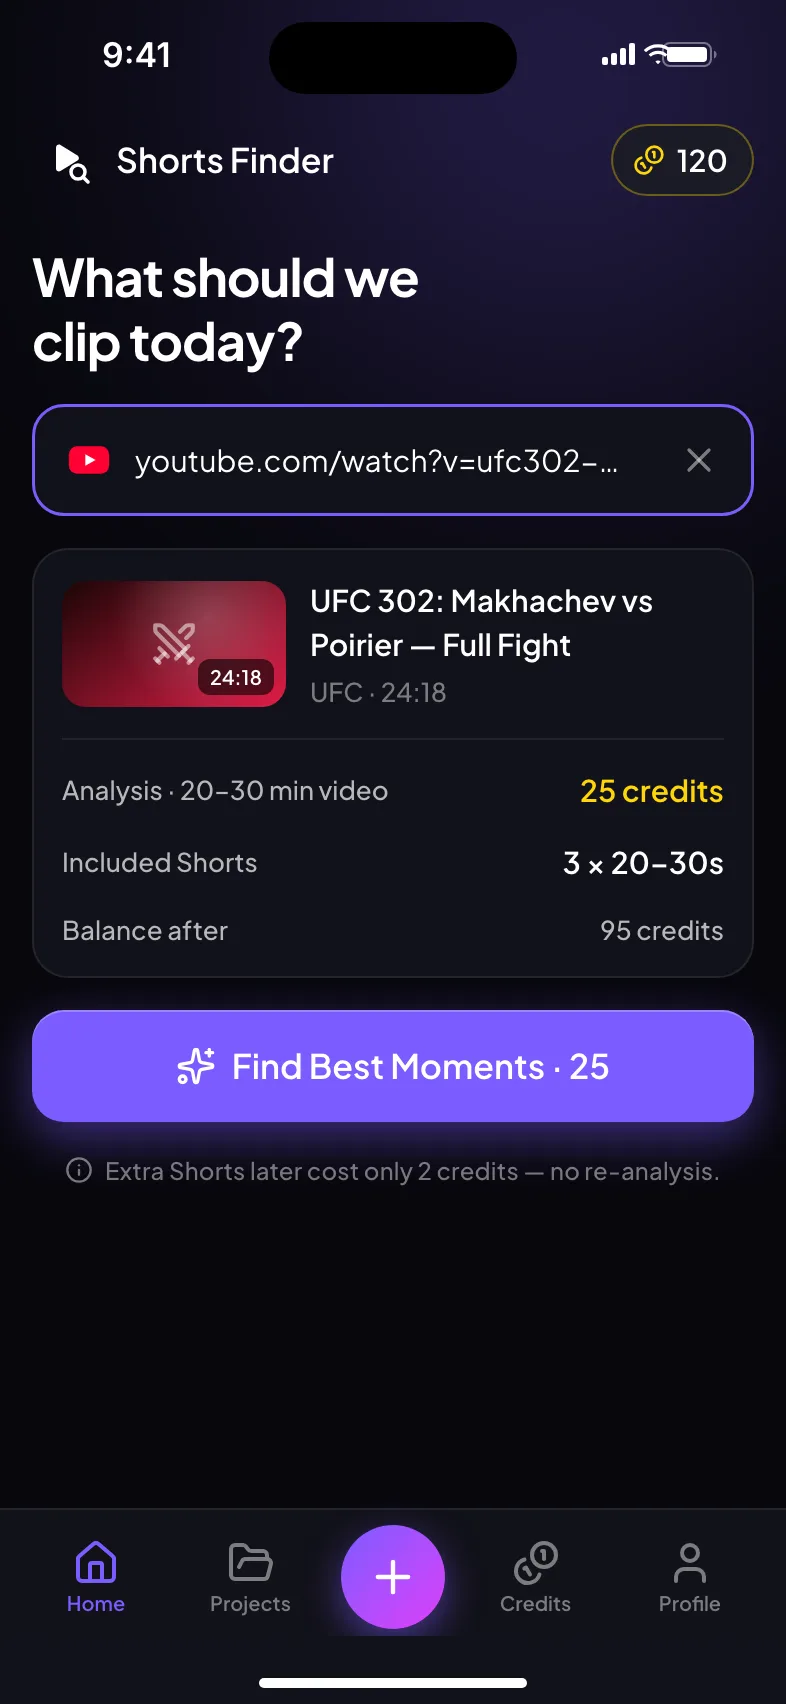
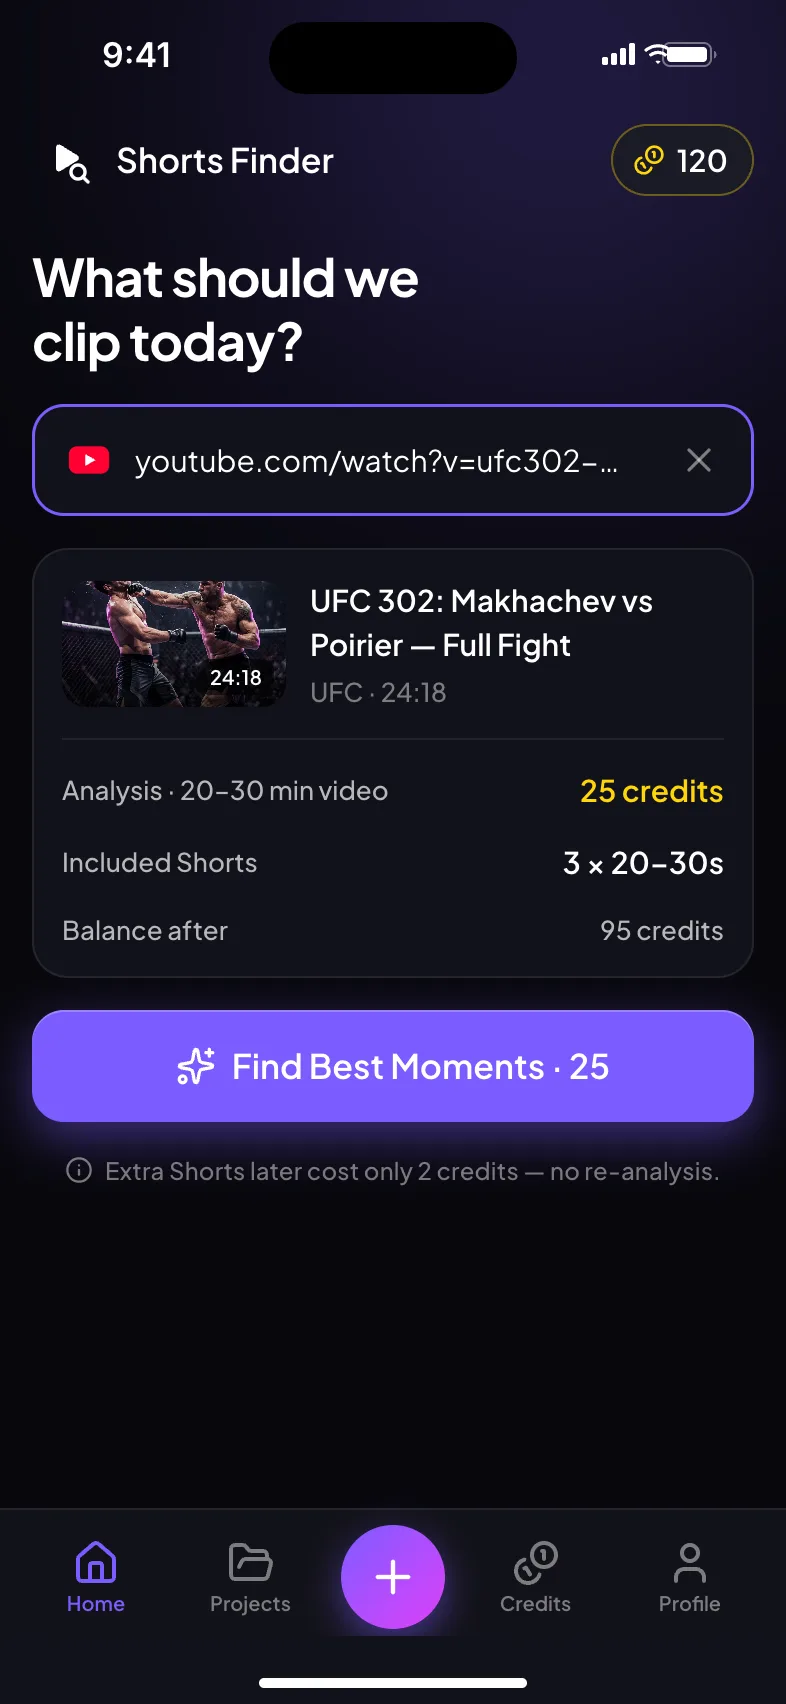
Gemini photos, SEO and AI-search files

Changed region(s): [[0.0611, 0.3421, 0.3664, 0.4354]]

diff --git a/index.html b/index.html
@@ -3,7 +3,7 @@
 <head>
 <meta charset="utf-8">
 <meta name="viewport" content="width=device-width, initial-scale=1">
-<title>ShortsFinder — AI YouTube Shorts Maker</title>
+<title>ShortsFinder — AI Shorts Maker for Long YouTube Videos</title>
 <meta name="description" content="Turn long YouTube videos into engaging Shorts with AI. ShortsFinder finds the best moments, creates vertical clips, adds captions and lets you edit and download them in seconds.">
 <meta name="theme-color" content="#07070C">
 <link rel="canonical" href="https://shortsfinder.com/">
@@ -12,7 +12,154 @@
 <meta property="og:description" content="AI finds the best moments in long YouTube videos and turns them into ready-to-share Shorts.">
 <meta property="og:url" content="https://shortsfinder.com/">
 <meta property="og:image" content="https://shortsfinder.com/assets/og.png">
+<meta property="og:site_name" content="ShortsFinder">
+<meta property="og:image:width" content="1200"><meta property="og:image:height" content="630">
+<meta property="og:image:alt" content="ShortsFinder app turning a long video into ranked Shorts">
 <meta name="twitter:card" content="summary_large_image">
+<meta name="twitter:title" content="ShortsFinder — Find the moments. Make the Shorts.">
+<meta name="twitter:description" content="AI finds the best moments in long YouTube videos and turns them into ready-to-share Shorts.">
+<meta name="twitter:image" content="https://shortsfinder.com/assets/og.png">
+<meta name="robots" content="index, follow, max-image-preview:large">
+<link rel="apple-touch-icon" href="assets/icon-512.png">
+<script type="application/ld+json">
+{
+ "@context": "https://schema.org",
+ "@graph": [
+  {
+   "@type": "Organization",
+   "@id": "https://shortsfinder.com/#org",
+   "name": "ShortsFinder",
+   "url": "https://shortsfinder.com/",
+   "logo": "https://shortsfinder.com/assets/icon-512.png",
+   "email": "ornekoguzhan@gmail.com",
+   "founder": {
+    "@type": "Person",
+    "name": "Oğuzhan Örnek"
+   }
+  },
+  {
+   "@type": "WebSite",
+   "@id": "https://shortsfinder.com/#site",
+   "name": "ShortsFinder",
+   "url": "https://shortsfinder.com/",
+   "publisher": {
+    "@id": "https://shortsfinder.com/#org"
+   },
+   "inLanguage": [
+    "en",
+    "tr",
+    "es",
+    "de"
+   ]
+  },
+  {
+   "@type": "MobileApplication",
+   "name": "ShortsFinder",
+   "alternateName": "Shorts Finder",
+   "operatingSystem": "Android",
+   "applicationCategory": "MultimediaApplication",
+   "applicationSubCategory": "Video editor",
+   "url": "https://shortsfinder.com/",
+   "image": "https://shortsfinder.com/assets/og.png",
+   "publisher": {
+    "@id": "https://shortsfinder.com/#org"
+   },
+   "description": "AI app that finds the best moments in long YouTube or gallery videos (podcasts, interviews, UFC/MMA, F1, football, gaming) and turns them into vertical Shorts with automatic captions, then lets you trim, crop and export them.",
+   "featureList": [
+    "AI moment detection with scores",
+    "Automatic word-by-word captions in 5 styles",
+    "Vertical 9:16 crop and reframe",
+    "Trim, speed and audio tools",
+    "1080p export on device",
+    "YouTube links and gallery videos"
+   ],
+   "offers": {
+    "@type": "Offer",
+    "price": "0",
+    "priceCurrency": "USD",
+    "description": "Free download; credits sold in-app"
+   }
+  },
+  {
+   "@type": "FAQPage",
+   "mainEntity": [
+    {
+     "@type": "Question",
+     "name": "What is ShortsFinder?",
+     "acceptedAnswer": {
+      "@type": "Answer",
+      "text": "ShortsFinder uses AI to find strong moments in long videos and turn them into short-form content."
+     }
+    },
+    {
+     "@type": "Question",
+     "name": "Does it work with YouTube videos?",
+     "acceptedAnswer": {
+      "@type": "Answer",
+      "text": "Yes. Paste a supported YouTube video link into the app and ShortsFinder takes it from there."
+     }
+    },
+    {
+     "@type": "Question",
+     "name": "Can I edit the generated Shorts?",
+     "acceptedAnswer": {
+      "@type": "Answer",
+      "text": "Yes. ShortsFinder includes lightweight editing tools for captions, styling, crop, timing and audio."
+     }
+    },
+    {
+     "@type": "Question",
+     "name": "Can I download the videos?",
+     "acceptedAnswer": {
+      "@type": "Answer",
+      "text": "Yes. Finished Shorts can be exported as video files."
+     }
+    },
+    {
+     "@type": "Question",
+     "name": "Does ShortsFinder automatically post my videos?",
+     "acceptedAnswer": {
+      "@type": "Answer",
+      "text": "Not yet. The first version focuses on creating and exporting Shorts — you share them from your phone. Social publishing can come later."
+     }
+    },
+    {
+     "@type": "Question",
+     "name": "What kinds of videos work best?",
+     "acceptedAnswer": {
+      "@type": "Answer",
+      "text": "Podcasts and interviews, but also videos where the best moment has no words: UFC and MMA fights, F1 races, football matches, gaming, concerts and events. The AI watches the picture as well as the speech."
+     }
+    },
+    {
+     "@type": "Question",
+     "name": "Can I use videos from my phone?",
+     "acceptedAnswer": {
+      "@type": "Answer",
+      "text": "Yes. Besides YouTube links, you can pick a long video from your gallery and ShortsFinder finds its best moments the same way."
+     }
+    },
+    {
+     "@type": "Question",
+     "name": "How much does ShortsFinder cost?",
+     "acceptedAnswer": {
+      "@type": "Answer",
+      "text": "The app is free to download and uses credits. Each analysis is priced by video length and includes 3 Shorts of your choice; extra Shorts cost a few more credits. No subscription, and credits for a failed analysis are refunded."
+     }
+    },
+    {
+     "@type": "Question",
+     "name": "Is ShortsFinder available on iPhone?",
+     "acceptedAnswer": {
+      "@type": "Answer",
+      "text": "ShortsFinder launches on Android first through Google Play. An iPhone version is planned."
+     }
+    }
+   ]
+  }
+ ]
+}
+</script>
 <link rel="icon" href="favicon.svg" type="image/svg+xml">
 <link rel="preconnect" href="https://fonts.googleapis.com">
 <link rel="preconnect" href="https://fonts.gstatic.com" crossorigin>
@@ -226,17 +373,17 @@
     <div class="ba reveal-ba" id="ba">
       <div>
         <div class="ba-label" data-i18n="ba.turn">Turn this</div>
-        <div class="player media c-podcast"><svg class="glyph"><use href="assets/icons.svg#i-mic"/></svg>
-          <div class="bar"><svg class="i" style="width:16px;height:16px"><use href="assets/icons.svg#i-play"/></svg>0:00<div class="track"><b style="width:12%"></b></div>1:12:34</div></div>
-        <p class="muted center" style="margin-top:14px;font-size:14px">How to Build a Successful Business · 1:12:34</p>
+        <div class="player media c-fight" style="--img:url(assets/photos/fight-wide.webp)"><svg class="glyph"><use href="assets/icons.svg#i-mic"/></svg>
+          <div class="bar"><svg class="i" style="width:16px;height:16px"><use href="assets/icons.svg#i-play"/></svg>0:00<div class="track"><b style="width:12%"></b></div>25:00</div></div>
+        <p class="muted center" style="margin-top:14px;font-size:14px">Main Event · Full Fight · 25:00</p>
       </div>
       <svg class="arrow" viewBox="0 0 72 40" fill="none" aria-hidden="true"><path d="M2 30 C 22 4, 46 4, 66 20" stroke="currentColor" stroke-width="2.5" stroke-linecap="round"/><path d="M56 14 l10 6 -11 4" stroke="currentColor" stroke-width="2.5" stroke-linecap="round" stroke-linejoin="round"/></svg>
       <div>
         <div class="ba-label" data-i18n="ba.into">Into this</div>
         <div class="shorts-row">
-          <div class="short media c-podcast"><svg class="glyph"><use href="assets/icons.svg#i-mic"/></svg><span class="tag r">0:36</span><div class="cap">The mindset changed <b>everything.</b></div></div>
-          <div class="short media c-podcast"><svg class="glyph"><use href="assets/icons.svg#i-mic"/></svg><span class="tag r">0:28</span><div class="cap">Discipline beats <b>motivation.</b></div></div>
-          <div class="short media c-podcast"><svg class="glyph"><use href="assets/icons.svg#i-mic"/></svg><span class="tag r">0:33</span><div class="cap">The real reason people <b>quit.</b></div></div>
+          <div class="short media c-fight" style="--img:url(assets/photos/fight-ko.webp)"><span class="tag r">0:36</span><div class="cap">He did <b>NOT</b> see that coming.</div></div>
+          <div class="short media c-fight" style="--img:url(assets/photos/fight-sub.webp)"><span class="tag r">0:28</span><div class="cap">He almost <b>TAPPED</b> out.</div></div>
+          <div class="short media c-fight" style="--img:url(assets/photos/crowd.webp)"><span class="tag r">0:33</span><div class="cap">The arena went <b>CRAZY.</b></div></div>
         </div>
       </div>
     </div>
@@ -307,6 +454,10 @@
       <details><summary><span data-i18n="faq.q3">Can I edit the generated Shorts?</span><svg class="i"><use href="assets/icons.svg#i-plus"/></svg></summary><p data-i18n="faq.a3">Yes. ShortsFinder includes lightweight editing tools for captions, styling, crop, timing and audio.</p></details>
       <details><summary><span data-i18n="faq.q4">Can I download the videos?</span><svg class="i"><use href="assets/icons.svg#i-plus"/></svg></summary><p data-i18n="faq.a4">Yes. Finished Shorts can be exported as video files.</p></details>
       <details><summary><span data-i18n="faq.q5">Does ShortsFinder automatically post my videos?</span><svg class="i"><use href="assets/icons.svg#i-plus"/></svg></summary><p data-i18n="faq.a5">Not yet. The first version focuses on creating and exporting Shorts — you share them from your phone. Social publishing can come later.</p></details>
+      <details><summary><span data-i18n="faq.q6">What kinds of videos work best?</span><svg class="i"><use href="assets/icons.svg#i-plus"/></svg></summary><p data-i18n="faq.a6">Podcasts and interviews, but also videos where the best moment has no words: UFC and MMA fights, F1 races, football matches, gaming, concerts and events. The AI watches the picture as well as the speech.</p></details>
+      <details><summary><span data-i18n="faq.q7">Can I use videos from my phone?</span><svg class="i"><use href="assets/icons.svg#i-plus"/></svg></summary><p data-i18n="faq.a7">Yes. Besides YouTube links, you can pick a long video from your gallery and ShortsFinder finds its best moments the same way.</p></details>
+      <details><summary><span data-i18n="faq.q8">How much does ShortsFinder cost?</span><svg class="i"><use href="assets/icons.svg#i-plus"/></svg></summary><p data-i18n="faq.a8">The app is free to download and uses credits. Each analysis is priced by video length and includes 3 Shorts of your choice; extra Shorts cost a few more credits. No subscription, and credits for a failed analysis are refunded.</p></details>
+      <details><summary><span data-i18n="faq.q9">Is ShortsFinder available on iPhone?</span><svg class="i"><use href="assets/icons.svg#i-plus"/></svg></summary><p data-i18n="faq.a9">ShortsFinder launches on Android first through Google Play. An iPhone version is planned.</p></details>
     </div>
   </div>
 </section>

diff --git a/i18n.js b/i18n.js
@@ -62,6 +62,14 @@ tr: {
   'faq.q3': 'Oluşan Shorts’ları düzenleyebilir miyim?', 'faq.a3': 'Evet. Altyazı, stil, kadraj, süre ve ses için pratik düzenleme araçları var.',
   'faq.q4': 'Videoları indirebilir miyim?', 'faq.a4': 'Evet. Hazır videoları dosya olarak indirip istediğin yerde kullanabilirsin.',
   'faq.q5': 'Videolarımı benim yerime paylaşıyor mu?', 'faq.a5': 'Şimdilik hayır. İlk sürüm video oluşturmaya ve indirmeye odaklanıyor; paylaşımı telefonundan kendin yapıyorsun. Doğrudan paylaşım ileride gelebilir.',
+  'faq.q6': "En iyi hangi videolarla çalışır?",
+  'faq.a6': "Podcast ve röportajlarda harika iş çıkarır; ama asıl farkı, en iyi anın konuşmadan oluştuğu videolarda görürsün: UFC ve MMA maçları, F1 yarışları, futbol maçları, oyun videoları, konserler. Yapay zekâ sadece konuşulanı değil, ekranda olanı da izler.",
+  'faq.q7': "Telefonumdaki videoları kullanabilir miyim?",
+  'faq.a7': "Evet. YouTube linkinin yanı sıra galerinden uzun bir video seçebilirsin; ShortsFinder en iyi anlarını aynı şekilde bulur.",
+  'faq.q8': "ShortsFinder ücretli mi?",
+  'faq.a8': "Uygulamayı indirmek ücretsiz, kullanım kredilerle. Her analizin kredisi videonun uzunluğuna göre belirlenir ve seçtiğin 3 Short buna dahildir; fazlası için birkaç kredi daha harcarsın. Abonelik yok, analiz başarısız olursa krediler iade edilir.",
+  'faq.q9': "iPhone’da var mı?",
+  'faq.a9': "ShortsFinder önce Android’de, Google Play’de yayında olacak. iPhone sürümü de planlarımızda.",
   'foot.tagline': 'Uzun videoyu at, Shorts’ları al.', 'foot.product': 'Ürün', 'foot.get': 'Uygulamayı indir',
   'foot.privacy': 'Gizlilik Politikası', 'foot.terms': 'Kullanım Koşulları', 'foot.rights': 'ShortsFinder. Tüm hakları saklıdır.', 'foot.made': 'İçerik üreticileri için tasarlandı.',
 },
@@ -119,6 +127,14 @@ es: {
   'faq.q3': '¿Puedo editar los Shorts?', 'faq.a3': 'Sí. Puedes ajustar subtítulos, estilo, encuadre, duración y audio con herramientas sencillas.',
   'faq.q4': '¿Puedo descargar los videos?', 'faq.a4': 'Sí. Cuando tu Short esté listo, lo exportas como archivo de video.',
   'faq.q5': '¿ShortsFinder publica mis videos por mí?', 'faq.a5': 'Por ahora no. La primera versión se centra en crear y exportar Shorts; los publicas tú desde tu teléfono. Más adelante podríamos añadir la publicación directa.',
+  'faq.q6': "¿Con qué videos funciona mejor?",
+  'faq.a6': "Con podcasts y entrevistas, claro, pero también con videos donde el mejor momento no necesita palabras: peleas de UFC y MMA, carreras de F1, partidos de fútbol, gaming, conciertos y eventos. La IA no solo escucha, también mira lo que pasa en pantalla.",
+  'faq.q7': "¿Puedo usar videos de mi teléfono?",
+  'faq.a7': "Sí. Además de enlaces de YouTube, puedes elegir un video largo de tu galería y ShortsFinder encontrará sus mejores momentos igual.",
+  'faq.q8': "¿Cuánto cuesta ShortsFinder?",
+  'faq.a8': "La app se descarga gratis y funciona con créditos. Cada análisis cuesta según la duración del video e incluye 3 Shorts a tu elección; si quieres más, son unos pocos créditos extra. Sin suscripción, y si un análisis falla, te devolvemos los créditos.",
+  'faq.q9': "¿Está disponible para iPhone?",
+  'faq.a9': "ShortsFinder llega primero a Android, en Google Play. La versión para iPhone está en camino.",
   'foot.tagline': 'Encuentra el momento. Crea el Short.', 'foot.product': 'Producto', 'foot.get': 'Descarga la app',
   'foot.privacy': 'Privacidad', 'foot.terms': 'Términos y condiciones', 'foot.rights': 'ShortsFinder. Todos los derechos reservados.', 'foot.made': 'Hecho para creadores.',
 },
@@ -176,6 +192,14 @@ de: {
   'faq.q3': 'Kann ich die Shorts noch bearbeiten?', 'faq.a3': 'Ja. Untertitel, Stil, Bildausschnitt, Länge und Ton lassen sich mit einfachen Tools anpassen.',
   'faq.q4': 'Kann ich die Videos herunterladen?', 'faq.a4': 'Ja. Fertige Shorts exportierst du als Videodatei.',
   'faq.q5': 'Postet ShortsFinder meine Videos automatisch?', 'faq.a5': 'Noch nicht. Die erste Version konzentriert sich aufs Erstellen und Exportieren – gepostet wird vom Handy aus. Direktes Posten kommt eventuell später.',
+  'faq.q6': "Mit welchen Videos funktioniert es am besten?",
+  'faq.a6': "Mit Podcasts und Interviews sowieso – aber auch mit Videos, deren bester Moment ganz ohne Worte auskommt: UFC- und MMA-Kämpfe, F1-Rennen, Fußballspiele, Gaming, Konzerte und Events. Die KI hört nicht nur zu, sie schaut auch hin.",
+  'faq.q7': "Kann ich Videos von meinem Handy nutzen?",
+  'faq.a7': "Ja. Neben YouTube-Links kannst du ein langes Video aus deiner Galerie wählen – ShortsFinder findet die besten Momente genauso.",
+  'faq.q8': "Was kostet ShortsFinder?",
+  'faq.a8': "Der Download ist kostenlos, bezahlt wird mit Credits. Jede Analyse kostet je nach Videolänge und enthält 3 Shorts deiner Wahl; weitere Shorts kosten ein paar Credits extra. Kein Abo – und schlägt eine Analyse fehl, bekommst du die Credits zurück.",
+  'faq.q9': "Gibt es ShortsFinder fürs iPhone?",
+  'faq.a9': "ShortsFinder startet zuerst auf Android bei Google Play. Eine iPhone-Version ist geplant.",
   'foot.tagline': 'Momente finden. Shorts machen.', 'foot.product': 'Produkt', 'foot.get': 'App holen',
   'foot.privacy': 'Datenschutz', 'foot.terms': 'AGB', 'foot.rights': 'ShortsFinder. Alle Rechte vorbehalten.', 'foot.made': 'Für Creator gemacht.',
 },

diff --git a/styles.css b/styles.css
@@ -97,6 +97,10 @@ h3{font:700 18px/1.3 var(--font);letter-spacing:-.01em}
 /* ---------- media primitives (shared with app) ---------- */
 .c-podcast{--a:#2E1065;--b:#F97316}.c-fight{--a:#1A0505;--b:#E11D48}.c-racing{--a:#0B1220;--b:#0EA5E9}.c-football{--a:#03140C;--b:#16A34A}.c-gaming{--a:#140B2E;--b:#A855F7}.c-cars{--a:#120F0A;--b:#F59E0B}.c-events{--a:#1E0B2E;--b:#EC4899}.c-edu{--a:#04161C;--b:#14B8A6}.c-interview{--a:#0F0F1F;--b:#6366F1}.c-react{--a:#1F0A0A;--b:#FB7185}
 .media{background:radial-gradient(circle at 65% 30%,rgba(255,255,255,.22),transparent 55%),linear-gradient(145deg,var(--a),var(--b))}
+/* Gemini photos (assets/photos) replace gradient + glyph for categories that have one; override per element with style="--img:url(...)" */
+.c-podcast{--img:url(assets/photos/podcast.webp)}.c-fight{--img:url(assets/photos/fight-ko.webp)}.c-racing{--img:url(assets/photos/race.webp)}.c-football{--img:url(assets/photos/football.webp)}.c-events{--img:url(assets/photos/crowd.webp)}
+.media:is(.c-podcast,.c-fight,.c-racing,.c-football,.c-events){background:linear-gradient(rgba(0,0,0,.12),rgba(0,0,0,.05) 35%,rgba(0,0,0,.55)),var(--img) center/cover}
+.media:is(.c-podcast,.c-fight,.c-racing,.c-football,.c-events)>.glyph{display:none}
 .short{--w:180px;width:var(--w);aspect-ratio:9/16;border-radius:calc(var(--w)*.09);position:relative;overflow:hidden;flex:none;box-shadow:0 20px 50px rgba(0,0,0,.45)}
 .short::after{content:"";position:absolute;inset:0;background:linear-gradient(180deg,transparent 45%,rgba(0,0,0,.78))}
 .short .glyph{position:absolute;left:50%;top:24%;transform:translateX(-50%);color:rgba(255,255,255,.28);width:calc(var(--w)*.4);height:calc(var(--w)*.4)}
